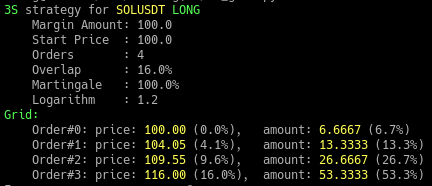
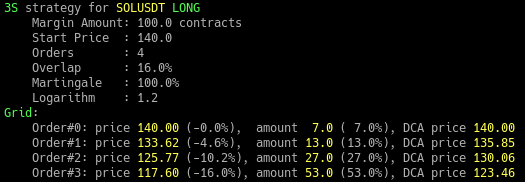
DCA price added

diff --git a/main.py b/main.py
@@ -33,7 +33,7 @@ symbol		= 'SOLUSDT' # just for info
 marginAmount= 100	# amount in symbol or USDT
 marginInCont= True	# True means contracts, not coins
 startPrice	= 140	# start here
-direction	= -1	# -1 or 'SHORT' - or - +1 or "LONG"
+direction	= 1		# -1='SHORT', 1="LONG"
 orders		= 4		# number of orders in grid, must be >=2, there is no sense for >=10
 overlap		= 16	# cover % from start price
 martingale	= 100	# % Martingale, 0 means NO, can be <0
@@ -46,7 +46,7 @@ def getGrid(symbol, marginAmount, startPrice, direction, orders, overlap, martin
 	startPrice = float(startPrice)
 	direction = 'SHORT' if direction=='SHORT' or direction<0  else 'LONG'
 	dirColor = 'light_red' if direction=='SHORT' else 'light_green'
-	dirSign = -1 if direction=='SHORT' else 1
+	dirSign = 1 if direction=='SHORT' else -1 # LONG position needs SHORT grid
 	orders = int(orders)
 	orders = orders if orders>=2 else 2
 	overlap = float(overlap)
@@ -88,6 +88,9 @@ def getGrid(symbol, marginAmount, startPrice, direction, orders, overlap, martin
 	# fill the Grid
 	Grid = {}
 	amountRound = 0 if marginInCont else 4
+	amountLen = 0 # get longest amount string
+	positionAmount = 0 # in coins
+	positionValue = 0 # in base
 	for i in range(0,orders):
 		# price with logarithm
 		price = priceLevels[i]
@@ -95,25 +98,31 @@ def getGrid(symbol, marginAmount, startPrice, direction, orders, overlap, martin
 		# order amount with Martingale
 		amount = round(marginAmount * martingaleList[i] / martnglTotal, amountRound)
 		amountPercent = 100 * amount / marginAmount
+		amountLen = amountLen if len(str(amount)) < amountLen else len(str(amount)) 
+		# position price
+		positionAmount += amount # total in coins
+		positionValue += amount * price # total in base
 		Grid[i] = {
 			'price': price,
 			'pricePercent': pricePercent,
 			'amount': amount,
 			'amountPercent': amountPercent,
+			'positionPrice': positionValue / positionAmount,
 		}
 
 	# print out orders
 	if printout:
-		print(colored("Grid:", 'light_green'))
+		print(colored("Grid", 'light_green') + ':')
 		priceLen = 1 + len(str(startPrice))
 		priceDec = 1 + len(str(startPrice).split('.')[1])
 		for i in Grid:
 			order = Grid[i]
 			orderPrice = colored(f"{order['price']:{priceLen}.0{priceDec}f}", 'light_yellow')
-			orderAmount = colored(f"{order['amount']}", 'light_yellow')
+			orderAmount = colored(f"{order['amount']:{amountLen}}", 'light_yellow')
 			pricePercentStr = f"({order['pricePercent']:.01f}%),"
 			amountPercent = order['amountPercent']
-			print(f"    Order#{i}: price {orderPrice} {pricePercentStr:9} amount {orderAmount} ({amountPercent:.01f}%)")
+			positionPrice = colored(f"{order['positionPrice']:{priceLen}.0{priceDec}f}", 'light_yellow')
+			print(f"    Order#{i}: price {orderPrice} {pricePercentStr:9} amount {orderAmount} ({amountPercent:4.01f}%), DCA price {positionPrice}")
 
 	return Grid
 

diff --git a/README.md b/README.md
@@ -1,21 +1,23 @@
 # 3S_order_grid
-**Build Limit Order Grid for 3S Crypto Trading Strategy. Print results.<br>**
+**Build Limit Order Grid for 3S Crypto Trading Strategy. Fill Python Dictionary, print results.**<br>
+https://github.com/sergeymusenko/3S_order_grid
+
 Thanks to Youtube chanel NN "Не Наблюдатель"!<br>
 About 3S Strategy see: https://www.youtube.com/watch?v=tODWA2E27uE
 
-For your Order Grid you can set start price, direction SHORT or LONG, price spread in %, number
-of orders and total margin for position.<br>
-Also you can set Martingale in % and logarithmic orders offset coefficient.<br>
-You can just print it in console or use this code as a module to get order grid as a dictionary
-then you can use it to set limit orders at real Crypto Exchange.
+For your Order Grid you can set Start Price, Order Direction (-1=SHORT, 1=LONG), Price Overlap (spread, in %), Number
+of Orders and Total Margin for position.
+Also you can set Martingale in % and Logarithmic Coefficient for orders price offset.
+
+You can just print results in console or use this code as a module to get the order grid as a Dictionary
+then you can use it to set limit orders at real Crypto Exchange (may be will done with next version).
 
 Small note about SHORT/LONG. This is a DCA strategy so if you plan to open LONG position
-you need "SHORT" price grid. Then you start position gaining while price goes down. And vice versa
-for SHORT position you need "LONG" price grid.
+you need "SHORT" price grid and you gains a position while price goes down. And vice versa
+for SHORT position you need "LONG" price grid. Using DCA strategy it's high probably you will not hit a Stop Loss (though it is better to set it beyond the Overlap range).
 
 Have a good profit!
 
-https://github.com/sergeymusenko/3S_order_grid
 
 **Results printout examples:<br/>**
 <img src="screenshot0.png" alt="Results printout example"><br>
